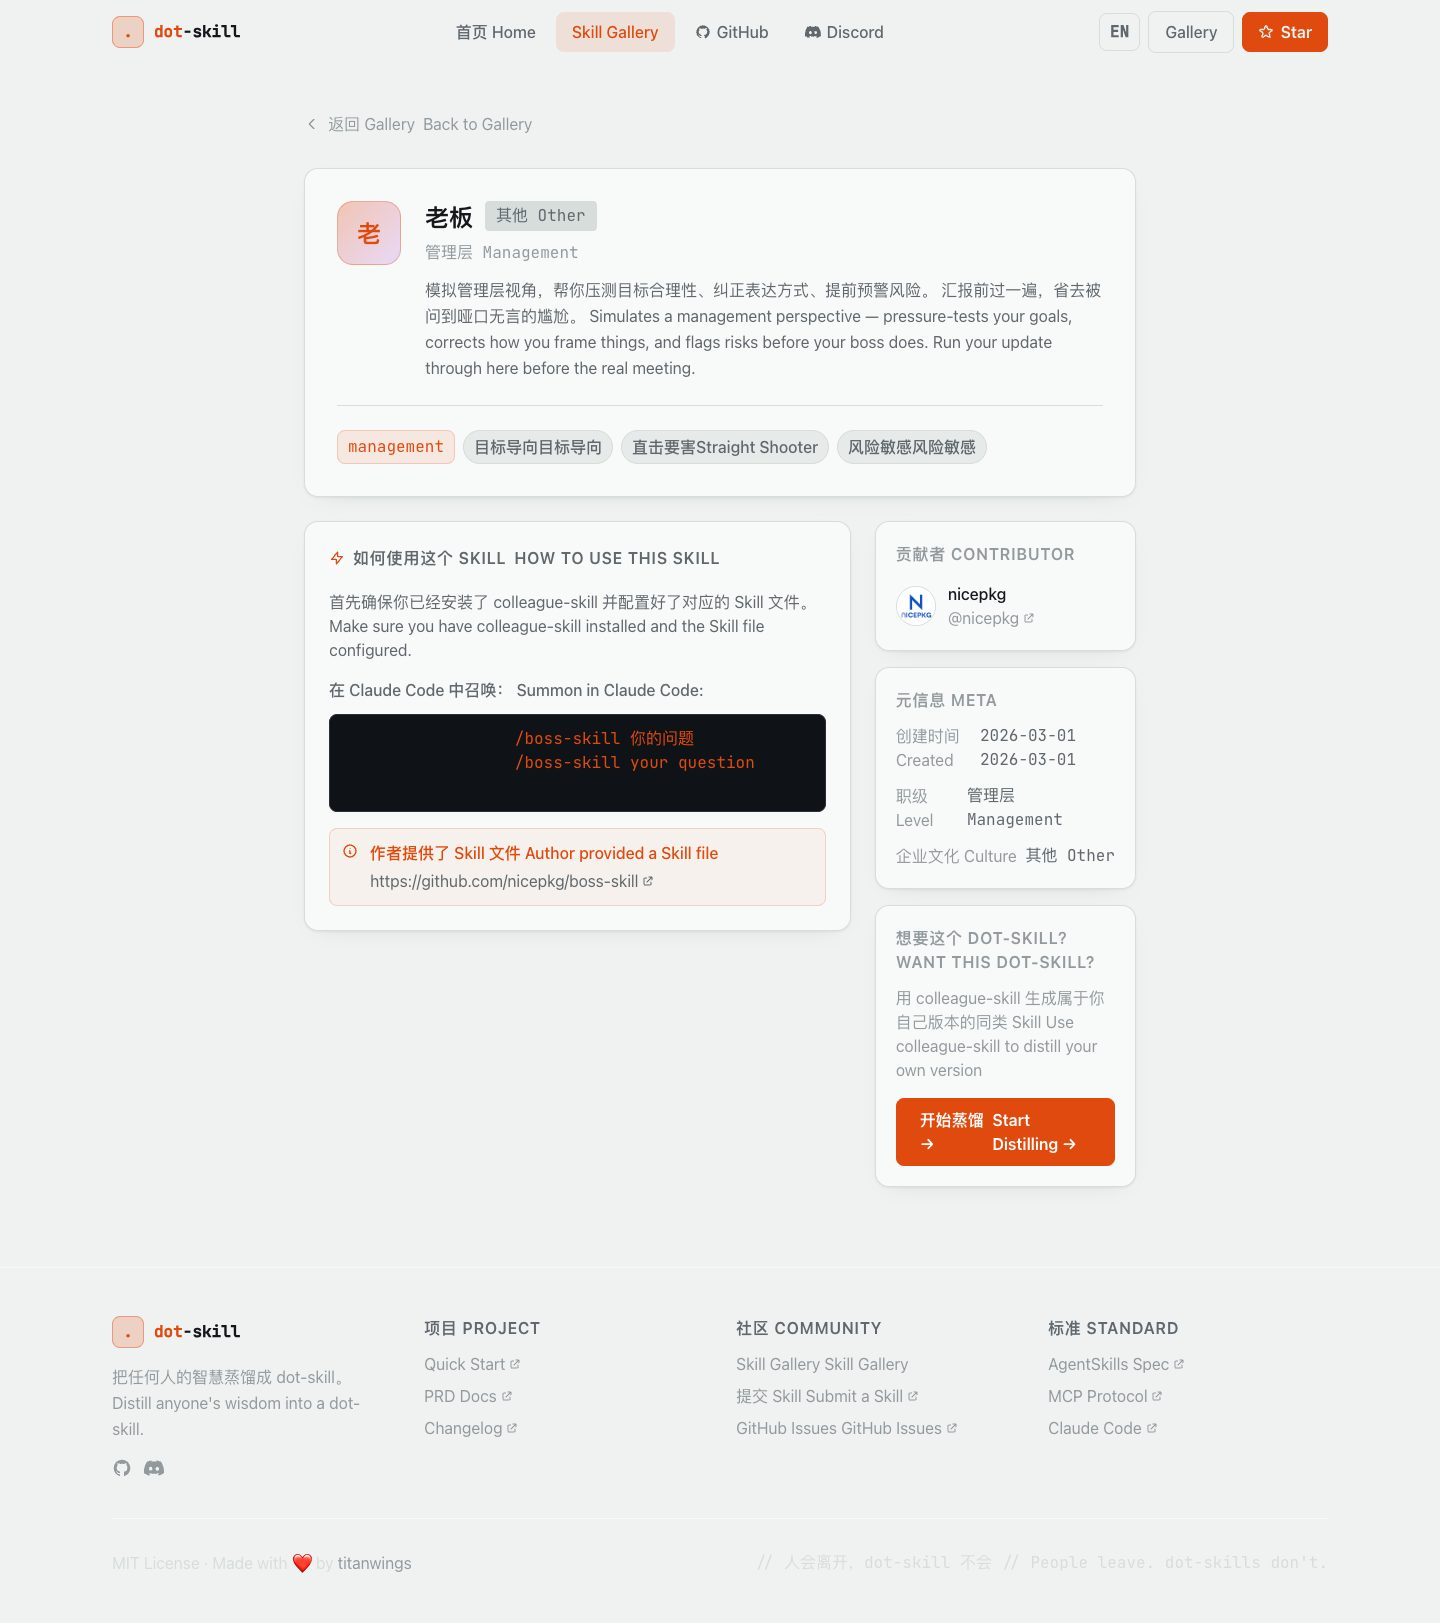
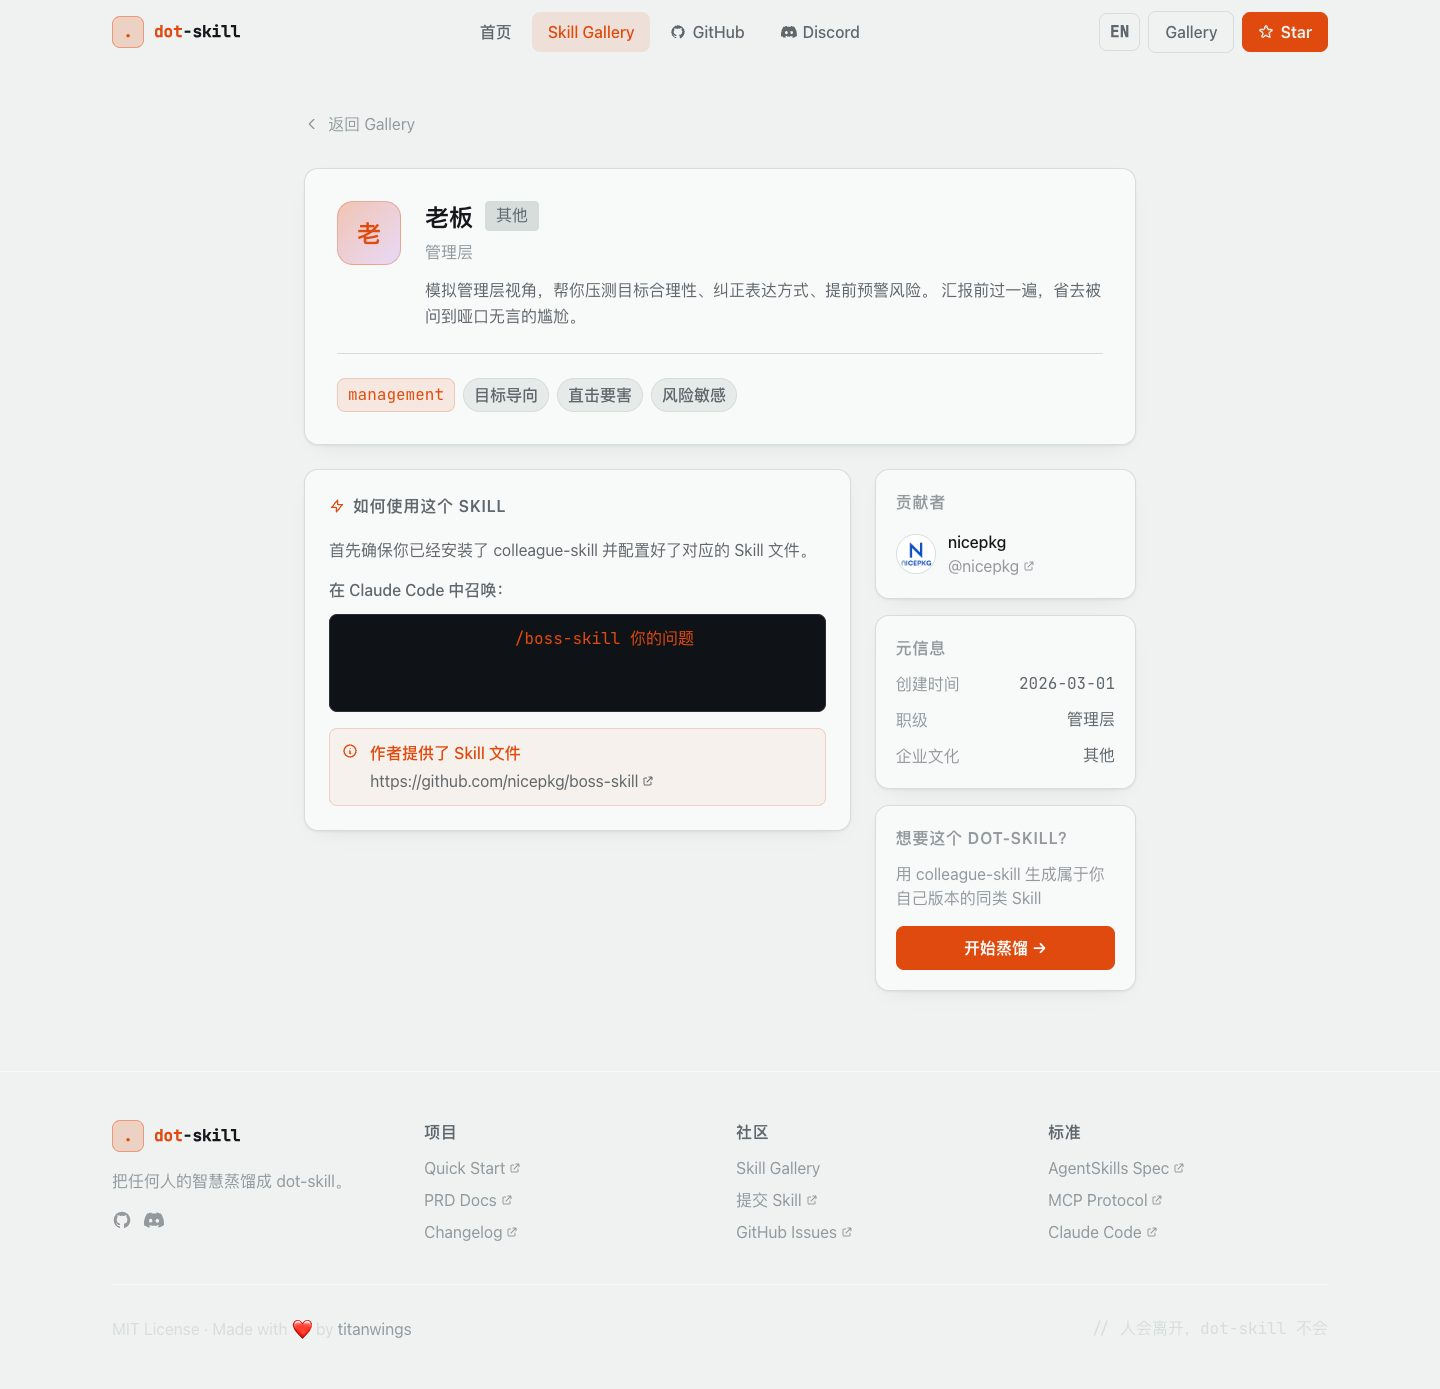
docs(site): record the language-toggle regression and the recaptured evidence
The PR-01 section now states what broke, which commit fixed it and the corrected
page heights, plus the capture-port and CLI-verification hardening that came out
of the same review round. Screenshots and receipts recaptured.

diff --git a/docs/REFACTOR-EVIDENCE.md b/docs/REFACTOR-EVIDENCE.md
@@ -89,6 +89,29 @@ Cloudflare beacon loading on every page.
 | Gallery | `before-gallery.jpg` | `pr-01-design-system-gallery-light.jpg` |
 | Detail | `before-detail.jpg` | `pr-01-design-system-detail-light.jpg` |
 
+**Regression found by the parallel PRs and fixed here**
+
+The `global.css` rewrite in this PR dropped the site-wide `.lang-zh` / `.lang-en`
+rules, so both languages rendered at once and every page grew (home 5997 → 7488 px).
+Restored as global rules, with a comment telling components not to ship scoped
+copies. Re-captured after the fix — heights are back in line with the live baseline:
+
+| Page | Live baseline | This PR (after the fix) |
+| --- | --- | --- |
+| `/` (desktop) | 5997 px | 5997 px |
+| `/gallery/` | 2463 px | 2463 px |
+| `/gallery/boss-skill/` | 1389 px | 1389 px |
+
+Two further hardening changes came out of the same review round:
+
+- `capture.mjs` now refuses to shoot a port that already answers, parses the URL
+  astro actually printed, and verifies a per-run marker file served from *this*
+  `dist/` before the first screenshot — parallel worktrees previously captured a
+  peer's build.
+- `agents.ts` gained `skillsCliSupported()` and a `{ requireVerified: true }`
+  option, so the unconfirmed AgentSkills target for Pi can never be presented as
+  verified.
+
 **Known gaps left for the next PRs** (not defects introduced here): section
 headers and feature cards still use the previous zh/en stacking and tinted
 gradients, the terminal demos are still styled ad-hoc, there is no theme toggle
